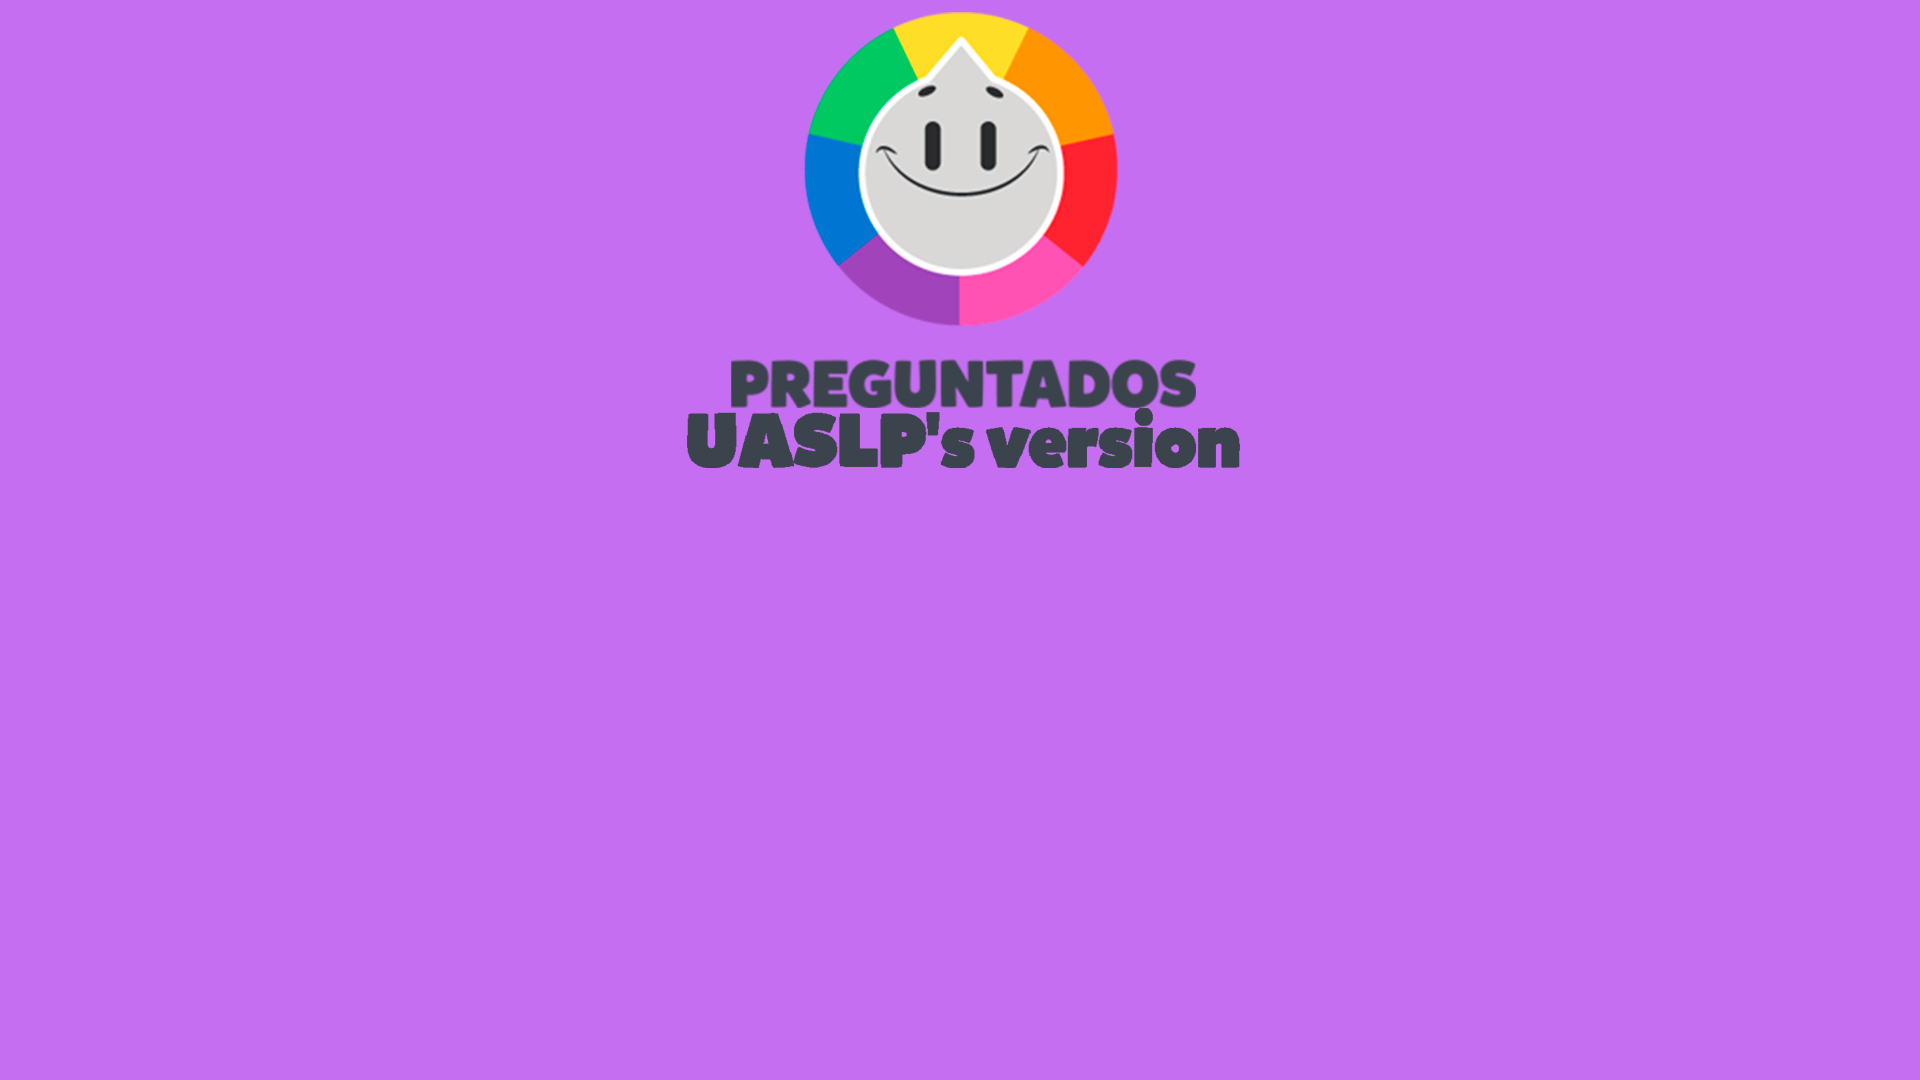
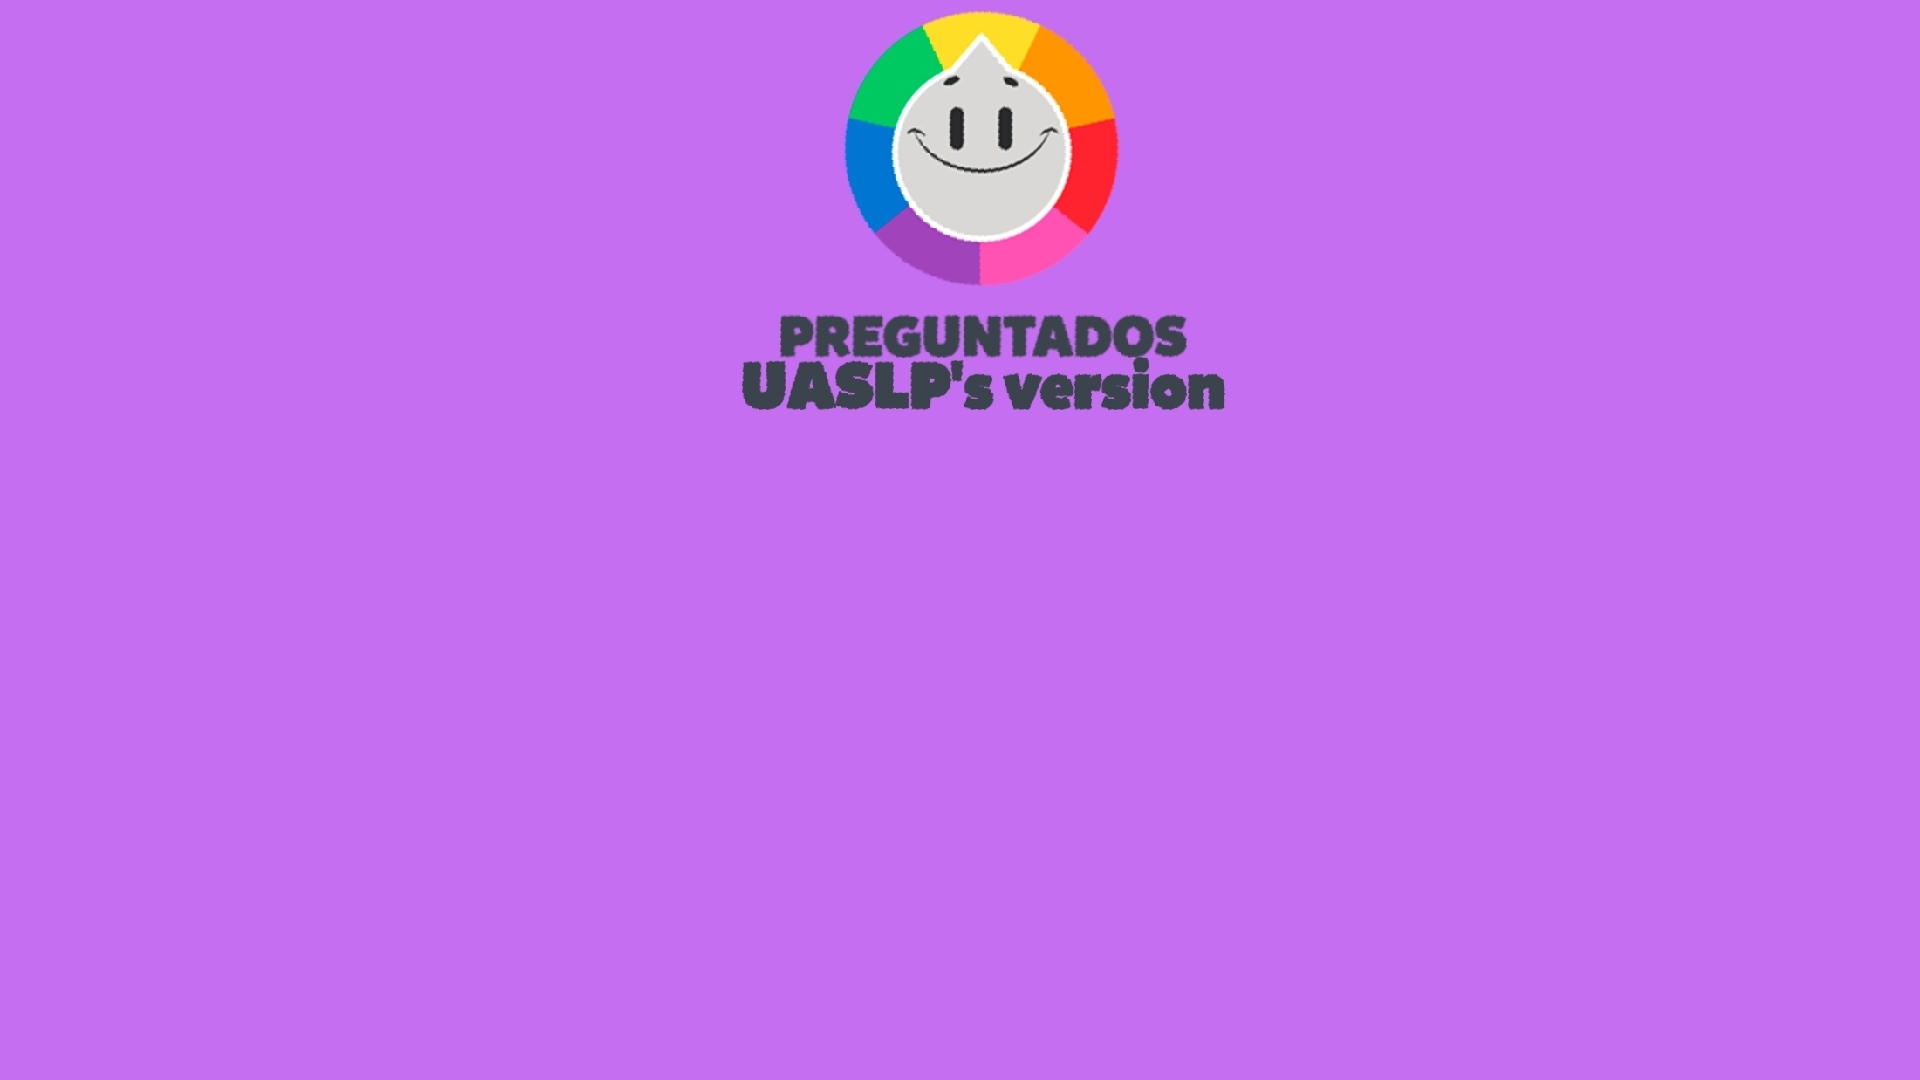
ajustes pequeños en página principal

Changed region(s): [[0.3438, 0.0, 0.6562, 0.4583]]

diff --git a/PreguntadosUASLP/Form1.Designer.cs b/PreguntadosUASLP/Form1.Designer.cs
@@ -49,9 +49,10 @@
             UASLP.BackColor = Color.Transparent;
             UASLP.BackgroundImage = Properties.Resources.opciones;
             UASLP.BackgroundImageLayout = ImageLayout.Stretch;
-            UASLP.Location = new Point(114, 275);
+            UASLP.Location = new Point(127, 357);
+            UASLP.Margin = new Padding(3, 4, 3, 4);
             UASLP.Name = "UASLP";
-            UASLP.Size = new Size(406, 69);
+            UASLP.Size = new Size(464, 92);
             UASLP.TabIndex = 0;
             UASLP.TabStop = false;
             UASLP.Tag = "UASLP";
@@ -62,9 +63,10 @@
             Cine.BackColor = Color.Transparent;
             Cine.BackgroundImage = Properties.Resources.opciones;
             Cine.BackgroundImageLayout = ImageLayout.Stretch;
-            Cine.Location = new Point(114, 350);
+            Cine.Location = new Point(127, 457);
+            Cine.Margin = new Padding(3, 4, 3, 4);
             Cine.Name = "Cine";
-            Cine.Size = new Size(406, 69);
+            Cine.Size = new Size(464, 92);
             Cine.TabIndex = 1;
             Cine.TabStop = false;
             Cine.Tag = "Cine";
@@ -75,9 +77,10 @@
             Videojuegos.BackColor = Color.Transparent;
             Videojuegos.BackgroundImage = Properties.Resources.opciones;
             Videojuegos.BackgroundImageLayout = ImageLayout.Stretch;
-            Videojuegos.Location = new Point(114, 425);
+            Videojuegos.Location = new Point(127, 557);
+            Videojuegos.Margin = new Padding(3, 4, 3, 4);
             Videojuegos.Name = "Videojuegos";
-            Videojuegos.Size = new Size(406, 69);
+            Videojuegos.Size = new Size(464, 92);
             Videojuegos.TabIndex = 2;
             Videojuegos.TabStop = false;
             Videojuegos.Tag = "Videojuegos";
@@ -88,9 +91,10 @@
             Futbol.BackColor = Color.Transparent;
             Futbol.BackgroundImage = Properties.Resources.opciones;
             Futbol.BackgroundImageLayout = ImageLayout.Stretch;
-            Futbol.Location = new Point(526, 425);
+            Futbol.Location = new Point(598, 557);
+            Futbol.Margin = new Padding(3, 4, 3, 4);
             Futbol.Name = "Futbol";
-            Futbol.Size = new Size(406, 69);
+            Futbol.Size = new Size(464, 92);
             Futbol.TabIndex = 5;
             Futbol.TabStop = false;
             Futbol.Tag = "Futbol";
@@ -102,9 +106,10 @@
             Tecnologia.BackColor = Color.Transparent;
             Tecnologia.BackgroundImage = Properties.Resources.opciones;
             Tecnologia.BackgroundImageLayout = ImageLayout.Stretch;
-            Tecnologia.Location = new Point(526, 350);
+            Tecnologia.Location = new Point(598, 457);
+            Tecnologia.Margin = new Padding(3, 4, 3, 4);
             Tecnologia.Name = "Tecnologia";
-            Tecnologia.Size = new Size(406, 69);
+            Tecnologia.Size = new Size(464, 92);
             Tecnologia.TabIndex = 4;
             Tecnologia.TabStop = false;
             Tecnologia.Tag = "Tecnología";
@@ -115,9 +120,10 @@
             Redes_Sociales.BackColor = Color.Transparent;
             Redes_Sociales.BackgroundImage = Properties.Resources.opciones;
             Redes_Sociales.BackgroundImageLayout = ImageLayout.Stretch;
-            Redes_Sociales.Location = new Point(526, 272);
+            Redes_Sociales.Location = new Point(598, 353);
+            Redes_Sociales.Margin = new Padding(3, 4, 3, 4);
             Redes_Sociales.Name = "Redes_Sociales";
-            Redes_Sociales.Size = new Size(406, 69);
+            Redes_Sociales.Size = new Size(464, 92);
             Redes_Sociales.TabIndex = 3;
             Redes_Sociales.TabStop = false;
             Redes_Sociales.Tag = "Redes sociales";
@@ -128,9 +134,10 @@
             Cultura_pop.BackColor = Color.Transparent;
             Cultura_pop.BackgroundImage = Properties.Resources.opciones;
             Cultura_pop.BackgroundImageLayout = ImageLayout.Stretch;
-            Cultura_pop.Location = new Point(322, 500);
+            Cultura_pop.Location = new Point(365, 657);
+            Cultura_pop.Margin = new Padding(3, 4, 3, 4);
             Cultura_pop.Name = "Cultura_pop";
-            Cultura_pop.Size = new Size(406, 69);
+            Cultura_pop.Size = new Size(464, 92);
             Cultura_pop.TabIndex = 6;
             Cultura_pop.TabStop = false;
             Cultura_pop.Tag = "Cultura pop";
@@ -138,11 +145,12 @@
             // 
             // Form1
             // 
-            AutoScaleDimensions = new SizeF(7F, 15F);
+            AutoScaleDimensions = new SizeF(8F, 20F);
             AutoScaleMode = AutoScaleMode.Font;
-            BackgroundImage = Properties.Resources.preguntados_uaslp;
+            BackColor = Color.DarkSlateBlue;
+            BackgroundImage = Properties.Resources.preguntados_uaslp___Copy;
             BackgroundImageLayout = ImageLayout.Zoom;
-            ClientSize = new Size(1032, 581);
+            ClientSize = new Size(1179, 775);
             Controls.Add(Cultura_pop);
             Controls.Add(Futbol);
             Controls.Add(Tecnologia);
@@ -150,8 +158,10 @@
             Controls.Add(Videojuegos);
             Controls.Add(Cine);
             Controls.Add(UASLP);
+            Margin = new Padding(3, 4, 3, 4);
             Name = "Form1";
-            Text = "Form1";
+            Text = "Preguntados - UASLP´s Version";
+            Load += Form1_Load;
             ((System.ComponentModel.ISupportInitialize)UASLP).EndInit();
             ((System.ComponentModel.ISupportInitialize)Cine).EndInit();
             ((System.ComponentModel.ISupportInitialize)Videojuegos).EndInit();

diff --git a/PreguntadosUASLP/Properties/Resources.Designer.cs b/PreguntadosUASLP/Properties/Resources.Designer.cs
@@ -1,10 +1,10 @@
 //------------------------------------------------------------------------------
 // <auto-generated>
-//     Este código fue generado por una herramienta.
-//     Versión de runtime:4.0.30319.42000
+//     This code was generated by a tool.
+//     Runtime Version:4.0.30319.42000
 //
-//     Los cambios en este archivo podrían causar un comportamiento incorrecto y se perderán si
-//     se vuelve a generar el código.
+//     Changes to this file may cause incorrect behavior and will be lost if
+//     the code is regenerated.
 // </auto-generated>
 //------------------------------------------------------------------------------
 
@@ -13,12 +13,12 @@ namespace PreguntadosUASLP.Properties {
     
     
     /// <summary>
-    ///   Clase de recurso fuertemente tipado, para buscar cadenas traducidas, etc.
+    ///   A strongly-typed resource class, for looking up localized strings, etc.
     /// </summary>
-    // StronglyTypedResourceBuilder generó automáticamente esta clase
-    // a través de una herramienta como ResGen o Visual Studio.
-    // Para agregar o quitar un miembro, edite el archivo .ResX y, a continuación, vuelva a ejecutar ResGen
-    // con la opción /str o recompile su proyecto de VS.
+    // This class was auto-generated by the StronglyTypedResourceBuilder
+    // class via a tool like ResGen or Visual Studio.
+    // To add or remove a member, edit your .ResX file then rerun ResGen
+    // with the /str option, or rebuild your VS project.
     [global::System.CodeDom.Compiler.GeneratedCodeAttribute("System.Resources.Tools.StronglyTypedResourceBuilder", "18.0.0.0")]
     [global::System.Diagnostics.DebuggerNonUserCodeAttribute()]
     [global::System.Runtime.CompilerServices.CompilerGeneratedAttribute()]
@@ -33,7 +33,7 @@ namespace PreguntadosUASLP.Properties {
         }
         
         /// <summary>
-        ///   Devuelve la instancia de ResourceManager almacenada en caché utilizada por esta clase.
+        ///   Returns the cached ResourceManager instance used by this class.
         /// </summary>
         [global::System.ComponentModel.EditorBrowsableAttribute(global::System.ComponentModel.EditorBrowsableState.Advanced)]
         internal static global::System.Resources.ResourceManager ResourceManager {
@@ -47,8 +47,8 @@ namespace PreguntadosUASLP.Properties {
         }
         
         /// <summary>
-        ///   Reemplaza la propiedad CurrentUICulture del subproceso actual para todas las
-        ///   búsquedas de recursos mediante esta clase de recurso fuertemente tipado.
+        ///   Overrides the current thread's CurrentUICulture property for all
+        ///   resource lookups using this strongly typed resource class.
         /// </summary>
         [global::System.ComponentModel.EditorBrowsableAttribute(global::System.ComponentModel.EditorBrowsableState.Advanced)]
         internal static global::System.Globalization.CultureInfo Culture {
@@ -61,7 +61,7 @@ namespace PreguntadosUASLP.Properties {
         }
         
         /// <summary>
-        ///   Busca un recurso adaptado de tipo System.Drawing.Bitmap.
+        ///   Looks up a localized resource of type System.Drawing.Bitmap.
         /// </summary>
         internal static System.Drawing.Bitmap imagenes {
             get {
@@ -71,7 +71,7 @@ namespace PreguntadosUASLP.Properties {
         }
         
         /// <summary>
-        ///   Busca un recurso adaptado de tipo System.Drawing.Bitmap.
+        ///   Looks up a localized resource of type System.Drawing.Bitmap.
         /// </summary>
         internal static System.Drawing.Bitmap opciones {
             get {
@@ -81,7 +81,7 @@ namespace PreguntadosUASLP.Properties {
         }
         
         /// <summary>
-        ///   Busca un recurso adaptado de tipo System.Drawing.Bitmap.
+        ///   Looks up a localized resource of type System.Drawing.Bitmap.
         /// </summary>
         internal static System.Drawing.Bitmap preguntados_uaslp {
             get {
@@ -91,7 +91,17 @@ namespace PreguntadosUASLP.Properties {
         }
         
         /// <summary>
-        ///   Busca un recurso adaptado de tipo System.Drawing.Bitmap.
+        ///   Looks up a localized resource of type System.Drawing.Bitmap.
+        /// </summary>
+        internal static System.Drawing.Bitmap preguntados_uaslp___Copy {
+            get {
+                object obj = ResourceManager.GetObject("preguntados uaslp - Copy", resourceCulture);
+                return ((System.Drawing.Bitmap)(obj));
+            }
+        }
+        
+        /// <summary>
+        ///   Looks up a localized resource of type System.Drawing.Bitmap.
         /// </summary>
         internal static System.Drawing.Bitmap preguntas1 {
             get {

diff --git a/PreguntadosUASLP/Form1.cs b/PreguntadosUASLP/Form1.cs
@@ -32,5 +32,20 @@ namespace PreguntadosUASLP
             FormFutbol ventanaJuego = new FormFutbol();
             ventanaJuego.ShowDialog();
         }
+
+        private void Form1_Load(object sender, EventArgs e)
+        {
+
+        }
+
+        private void Cultura_pop_Click(object sender, EventArgs e)
+        {
+
+        }
+
+        private void pictureBox1_Click(object sender, EventArgs e)
+        {
+
+        }
     }
 }
